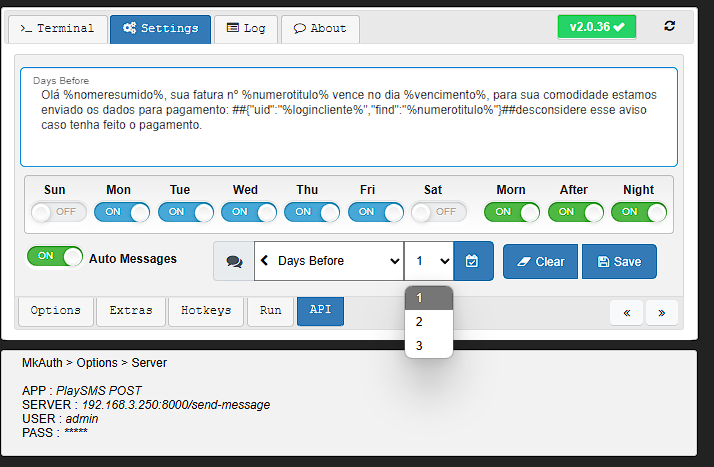
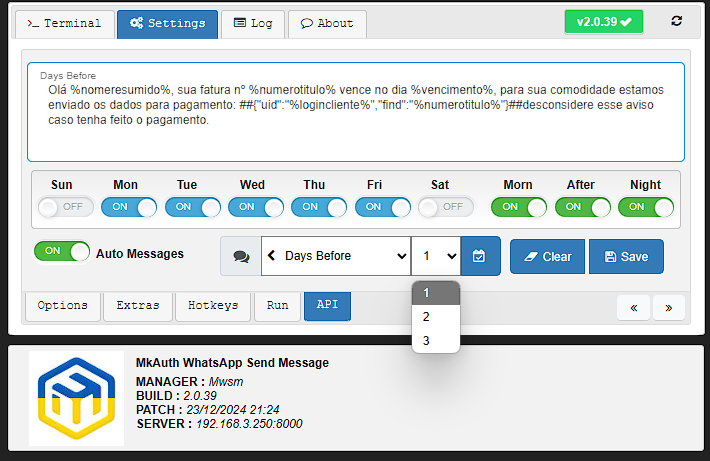
Add files via upload

Changed region(s): [[0.0, 0.0, 1.0, 1.0]]

diff --git a/index.html b/index.html
@@ -938,11 +938,26 @@
         <div id="tabs-8" style="margin:10px;width:696px;height:326;color:#222;">
             <div class="row">
                 <div class="col-50">
-                    <div class="container"> MkAuth > Options > Server<BR><BR>APP : <i>PlaySMS POST</i><BR>SERVER : <i class="host"></i><BR>USER : <i>admin</i><BR>PASS : <i>*****</i><BR>
+                    <div class="container" style="height:84px;">
+                        <div style="width:300px;">
+                            <div style="float:left;width:100px;">
+
[1 lines of base64/hex data omitted]
+
+                            </div>
+                            <div style="float:right;margin-top:5px;">
+
+                                <b>MkAuth WhatsApp Send Message</b><br>
+                                <div style="margin-top:5px;"><b>MANAGER :</b> <i id="Manager"></i><br><b>BUILD :</b> <i id="Build"></i><br><b>PATCH :</b> <i id="Patched"></i><br><b>SERVER :</b> <i class="host"></i><br>
+                                </div>
+                            </div>
+                        </div>
                     </div>
+
                 </div>
             </div>
         </div>
+    </div>
     </div>
     <div class="modal">
         <div class="modal-content">

diff --git a/script.js b/script.js
@@ -1961,7 +1961,7 @@ $(document).ready(function() {
 
 	});
 
-	$('.host').text($(location).attr('host') + "/send-message");
+	$('.host').text($(location).attr('host'));
 
 	var socket = io();
 
@@ -2249,6 +2249,20 @@ $(document).ready(function() {
 
 	socket.on('Version', function(data) {
 		$('#Version').val('v' + data);
+		$('#Build').text(data);
+	});
+
+
+	socket.on('Manager', function(data) {
+		switch (data) {
+			case 'true':
+				$('#Manager').text("Mwsm");
+				break;
+			case 'false':
+				$('#Manager').text("MkAuth");
+				break;
+		}
+
 	});
 
 
@@ -2440,8 +2454,10 @@ $(document).ready(function() {
 				$("#AutoBot").prop("checked", true);
 				$(".MSG_Box").prop("disabled", true);
 				$("#Zero, #InSave").css('cursor', 'not-allowed');
+				$('#Manager').text("Mwsm");
 				break;
 			case 'false':
+				$('#Manager').text("MkAuth");
 				$("#AutoBot").prop("checked", false);
 				$(".MSG_Box").prop("disabled", false);
 				$("#Zero, #InSave").css('cursor', 'pointer');
@@ -2462,6 +2478,11 @@ $(document).ready(function() {
 				$("#MinTime, #MaxTime").prop('disabled', true);
 			}
 		}
+	});
+
+
+	socket.on('Patched', function(data) {
+		$("#Patched").text(data);
 	});
 
 	socket.on('bfive', function(data) {
@@ -3256,8 +3277,10 @@ $(document).ready(function() {
 		if ($("#module").is(":checked") && $("#AutoBot").is(":checked")) {
 			$("#backup, #Spam, #SpamOut, #MinTime, #MaxTime, #Shift, .MSG_Box").prop("disabled", true);
 			$("#Zero, #InSave").css('cursor', 'not-allowed');
+			$('#Manager').text("Mwsm");
 			Aimbot = true;
 		} else {
+			$('#Manager').text("MkAuth");
 			$("#Zero, #InSave").css('cursor', 'pointer');
 			$("#backup, #Spam, #Shift, .MSG_Box").prop("disabled", false);
 			if ($("#Spam").is(":checked")) {
@@ -3284,7 +3307,6 @@ $(document).ready(function() {
 			success: function(data) {
 				$(".Reset").removeClass("fa-spin").addClass("change").prop('disabled', false);
 				$("#AutoBot").prop("checked", data.Return).prop("disabled", false);
-
 			},
 			error: function(request, status, error) {
 				$(".Reset").removeClass("fa-spin").addClass("change").prop('disabled', false);

diff --git a/mwsm.js b/mwsm.js
@@ -262,8 +262,11 @@ const GetUpdate = async (GET, SET) => {
 		Conclusion = false;
 		Status = false;
 		if (!SET) {
-			await global.io.emit('message', '> ' + Debug('OPTIONS').appname + ' : ' + Debug('CONSOLE').isalready);
-			console.log('> ' + Debug('OPTIONS').appname + ' : ' + Debug('CONSOLE').isalready);
+			const Register = await Dataset('RELEASE', 'MWSM', (Nowdate['version'][0].patch), 'UPDATE');
+			if (Register) {
+				await global.io.emit('message', '> ' + Debug('OPTIONS').appname + ' : ' + Debug('CONSOLE').isalready);
+				console.log('> ' + Debug('OPTIONS').appname + ' : ' + Debug('CONSOLE').isalready);
+			}
 		}
 		await global.io.emit('upgrade', true);
 	} else {
@@ -823,11 +826,11 @@ function isShift(Turno) {
 }
 
 
-
 //-------------------------------------------------------------------------------------------------------------------------------------------------------------------------------------------------------
 
 //Test
 delay(0).then(async function() {
+
 
 });
 
@@ -1162,6 +1165,8 @@ const client = new Client({
 });
 io.on('connection', function(socket) {
 	socket.emit('Version', Package.version);
+	socket.emit('Manager', Debug('MKAUTH').aimbot);
+	socket.emit('Patched', (new Date(Debug('RELEASE').mwsm).toLocaleString("pt-br").split(",")[0]) + " " + ((Debug('RELEASE').mwsm).split(" ")[1]).split(":")[0] + ":" + ((Debug('RELEASE').mwsm).split(" ")[1]).split(":")[1]);
 	socket.emit('Reset', true);
 	if (Session || (Debug('OPTIONS').auth == 1 || Debug('OPTIONS').auth == "true")) {
 		console.log('> ' + Debug('OPTIONS').appname + ' : ' + Debug('CONSOLE').authenticated);
